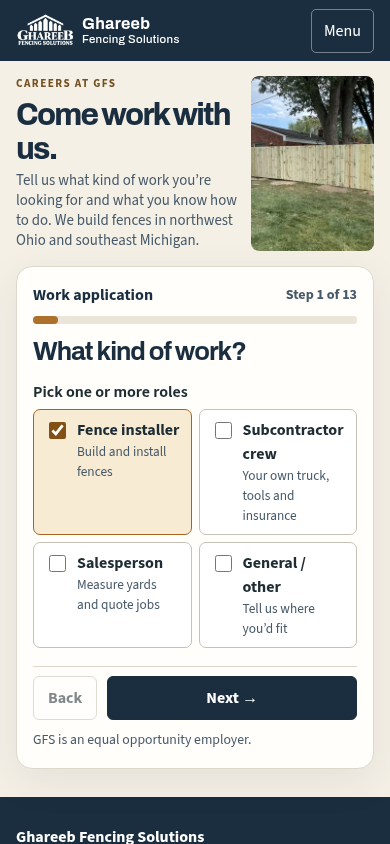
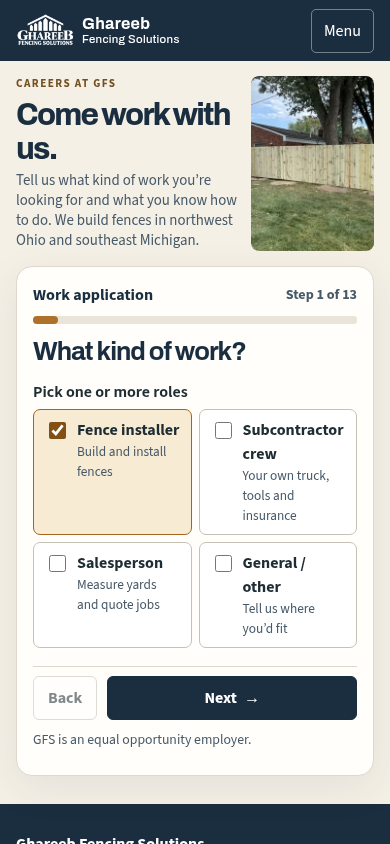
[skip netlify] Fix Careers intake and mobile validation

Changed region(s): [[0.0, 0.8934, 1.0, 0.955], [0.0308, 0.9858, 0.5231, 1.0], [0.5231, 0.8009, 0.6154, 0.8318]]

diff --git a/public/_netlify-forms.html b/public/_netlify-forms.html
@@ -1,4 +1,64 @@
 <!doctype html><html lang="en"><head><meta charset="utf-8"><meta name="robots" content="noindex"><title>Ghareeb form definitions</title></head><body><form name="gfs-estimate" method="POST" data-netlify="true" netlify-honeypot="bot-field" hidden><input name="form-name" value="gfs-estimate"><input name="bot-field"><input type="hidden" name="subject" data-remove-prefix value="New website request (%{formName})"><input name="summary"><input name="name"><input name="phone"><input name="email"><input name="best_way_to_reach"><input name="best_time_to_reach"><input name="address"><input name="date"><input name="time"><input name="price_range_shown"><input name="fence_sections"><input name="fenceType"><input name="fenceStyle"><input name="linearFeet"><input name="height"><input name="singleGates"><input name="doubleGates"><input name="timeline"><input name="site_notes"><input name="heard_from"><input name="notes"><input type="file" name="photo" accept="image/jpeg,image/png,image/webp"><input name="map_drawing"><input name="came_from"><input name="page"><input name="submitted"><input name="source"><input name="gfs_contract"><input name="intake_kind"><input name="submission_id"><input name="createdAt"><input name="createdAtMs"><input name="geometry"><input name="meta"></form>
 <form name="gfs-ballpark" method="POST" data-netlify="true" netlify-honeypot="bot-field" hidden><input name="form-name" value="gfs-ballpark"><input name="bot-field"><input type="hidden" name="subject" data-remove-prefix value="New website request (%{formName})"><input name="summary"><input name="name"><input name="phone"><input name="email"><input name="best_way_to_reach"><input name="best_time_to_reach"><input name="address"><input name="date"><input name="time"><input name="price_range_shown"><input name="pricing_project"><input name="estimate_email_opt_in"><input name="fence_sections"><input name="fenceType"><input name="fenceStyle"><input name="linearFeet"><input name="height"><input name="singleGates"><input name="doubleGates"><input name="timeline"><input name="site_notes"><input name="heard_from"><input name="notes"><input type="file" name="photo" accept="image/jpeg,image/png,image/webp"><input name="map_drawing"><input name="came_from"><input name="page"><input name="submitted"><input name="source"><input name="gfs_contract"><input name="intake_kind"><input name="submission_id"><input name="createdAt"><input name="createdAtMs"><input name="geometry"><input name="meta"></form>
 <form name="gfs-booking" method="POST" data-netlify="true" netlify-honeypot="bot-field" hidden><input name="form-name" value="gfs-booking"><input name="bot-field"><input type="hidden" name="subject" data-remove-prefix value="New website request (%{formName})"><input name="summary"><input name="name"><input name="phone"><input name="email"><input name="best_way_to_reach"><input name="best_time_to_reach"><input name="address"><input name="date"><input name="time"><input name="price_range_shown"><input name="fence_sections"><input name="fenceType"><input name="fenceStyle"><input name="linearFeet"><input name="height"><input name="singleGates"><input name="doubleGates"><input name="timeline"><input name="site_notes"><input name="heard_from"><input name="notes"><input type="file" name="photo" accept="image/jpeg,image/png,image/webp"><input name="map_drawing"><input name="came_from"><input name="page"><input name="submitted"><input name="source"><input name="gfs_contract"><input name="intake_kind"><input name="submission_id"><input name="createdAt"><input name="createdAtMs"><input name="geometry"><input name="meta"></form>
-<form name="gfs-careers" method="POST" data-netlify="true" netlify-honeypot="bot-field" hidden><input name="form-name" value="gfs-careers"><input name="bot-field"><input type="hidden" name="subject" data-remove-prefix value="New GFS careers application"><input name="gfs_contract"><input name="intake_kind"><input name="submission_id"><textarea name="application"></textarea></form></body></html>
+<form name="gfs-careers" method="POST" data-netlify="true" netlify-honeypot="bot-field" hidden>
+  <input name="form-name" value="gfs-careers"><input name="bot-field"><input type="hidden" name="subject" data-remove-prefix value="New GFS careers application"><input name="gfs_contract"><input name="intake_kind"><input name="submission_id">
+  <input name="name">
+  <input name="phone">
+  <input type="email" name="email">
+  <input name="street">
+  <input name="city">
+  <input name="state">
+  <input name="zip">
+  <input name="reach_way">
+  <input name="reach_time">
+  <input name="transportation">
+  <input name="license">
+  <input name="fence_years">
+  <textarea name="other_skills"></textarea>
+  <textarea name="tools"></textarea>
+  <input name="hours">
+  <input name="start_date">
+  <input name="travel">
+  <input name="authorized">
+  <input name="adult">
+  <input name="crew_size">
+  <input name="business">
+  <input name="liability">
+  <input name="workers_comp">
+  <input name="sales_years">
+  <input name="on_site_quote">
+  <input name="heard_from">
+  <textarea name="notes"></textarea>
+  <input name="roles">
+  <input name="fence_types">
+  <input name="skills">
+  <input name="days">
+  <input name="consent">
+  <input name="job_1_company">
+  <input name="job_1_role">
+  <input name="job_1_start">
+  <input name="job_1_end">
+  <textarea name="job_1_duties"></textarea>
+  <input name="job_1_may_contact">
+  <input name="job_2_company">
+  <input name="job_2_role">
+  <input name="job_2_start">
+  <input name="job_2_end">
+  <textarea name="job_2_duties"></textarea>
+  <input name="job_2_may_contact">
+  <input name="job_3_company">
+  <input name="job_3_role">
+  <input name="job_3_start">
+  <input name="job_3_end">
+  <textarea name="job_3_duties"></textarea>
+  <input name="job_3_may_contact">
+  <input name="installer_pay_unit">
+  <input name="installer_pay_amount">
+  <input name="crew_pay_unit">
+  <input name="crew_pay_amount">
+  <input name="sales_pay_unit">
+  <input name="sales_pay_amount">
+  <input name="other_pay_unit">
+  <input name="other_pay_amount">
+</form></body></html>

diff --git a/public/assets/css/careers.css b/public/assets/css/careers.css
@@ -63,7 +63,7 @@ progress::-moz-progress-bar { background: #ad712b; border-radius: 5px; }
 .field > :is(input,select,textarea) { width: 100%; min-height: 44px; border: 1px solid var(--border); border-radius: 6px; padding: 8px 10px; background: white; font-weight: 450; }
 textarea { resize: vertical; }
 .fields { display: grid; gap: 13px; }
-.pair { display: grid; grid-template-columns: repeat(2,minmax(0,1fr)); gap: 12px; }
+.pair { display: grid; grid-template-columns: repeat(2,minmax(0,1fr)); align-items: end; gap: 12px; }
 fieldset { min-width: 0; margin: 0; padding: 0; border: 0; }
 legend { padding: 0; margin-bottom: 5px; font-weight: 650; }
 .choices { display: flex; flex-wrap: wrap; gap: 7px; }
@@ -114,7 +114,17 @@ button:disabled { opacity: .56; cursor: default; }
   .work-photo picture img { height: 100%; max-height: 175px; min-height: 100px; border-radius: 8px; }
   .work-photo :is(figcaption,.detail-photo) { display: none; }
   .form-head { margin-bottom: 14px; }
-  .form-actions { position: sticky; bottom: env(safe-area-inset-bottom); padding: 9px 0 2px; background: var(--paper); border-top: 1px solid #ded8cc; }
+}
+@media (max-width: 740px), (pointer: coarse) {
+  .form-actions {
+    position: sticky;
+    bottom: 0;
+    bottom: var(--keyboard-overlap, 0px);
+    z-index: 1;
+    padding: 9px 0 max(9px, env(safe-area-inset-bottom));
+    background: var(--paper);
+    border-top: 1px solid #ded8cc;
+  }
 }
 @media (max-width: 355px) {
   .intro { grid-template-columns: minmax(0,1fr) 86px; }

diff --git a/public/careers/index.html b/public/careers/index.html
@@ -2,7 +2,7 @@
 <html lang="en">
 <head>
   <meta charset="utf-8">
-  <meta name="viewport" content="width=device-width,initial-scale=1,viewport-fit=cover">
+  <meta name="viewport" content="width=device-width,initial-scale=1,viewport-fit=cover,interactive-widget=resizes-content">
   <meta name="theme-color" content="#1a2e40">
   <meta name="description" content="Apply to work with Ghareeb Fencing Solutions in northwest Ohio and southeast Michigan.">
   <title>Careers | Ghareeb Fencing Solutions</title>
